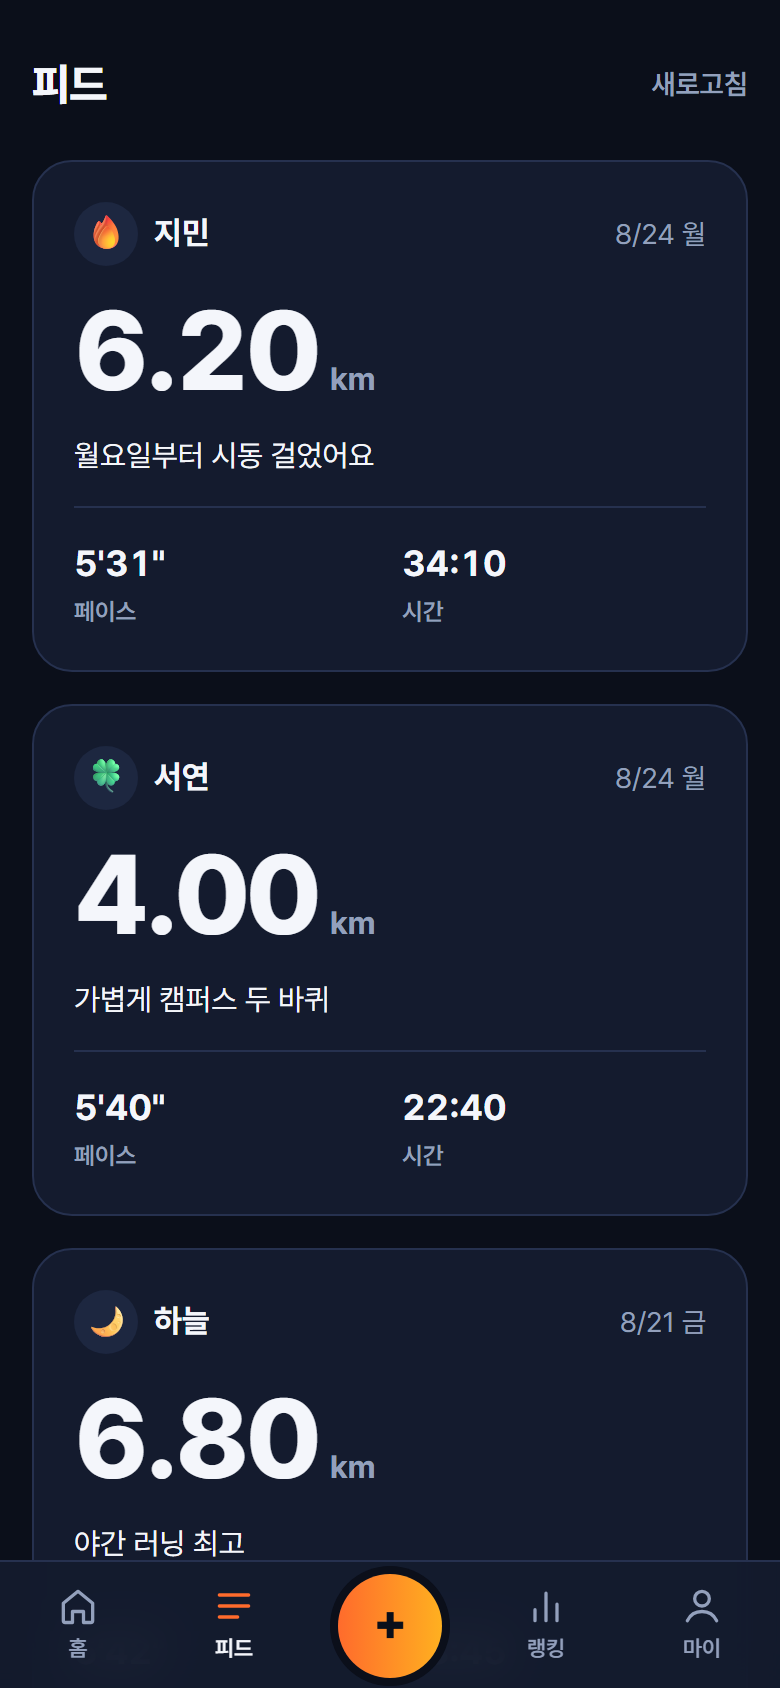
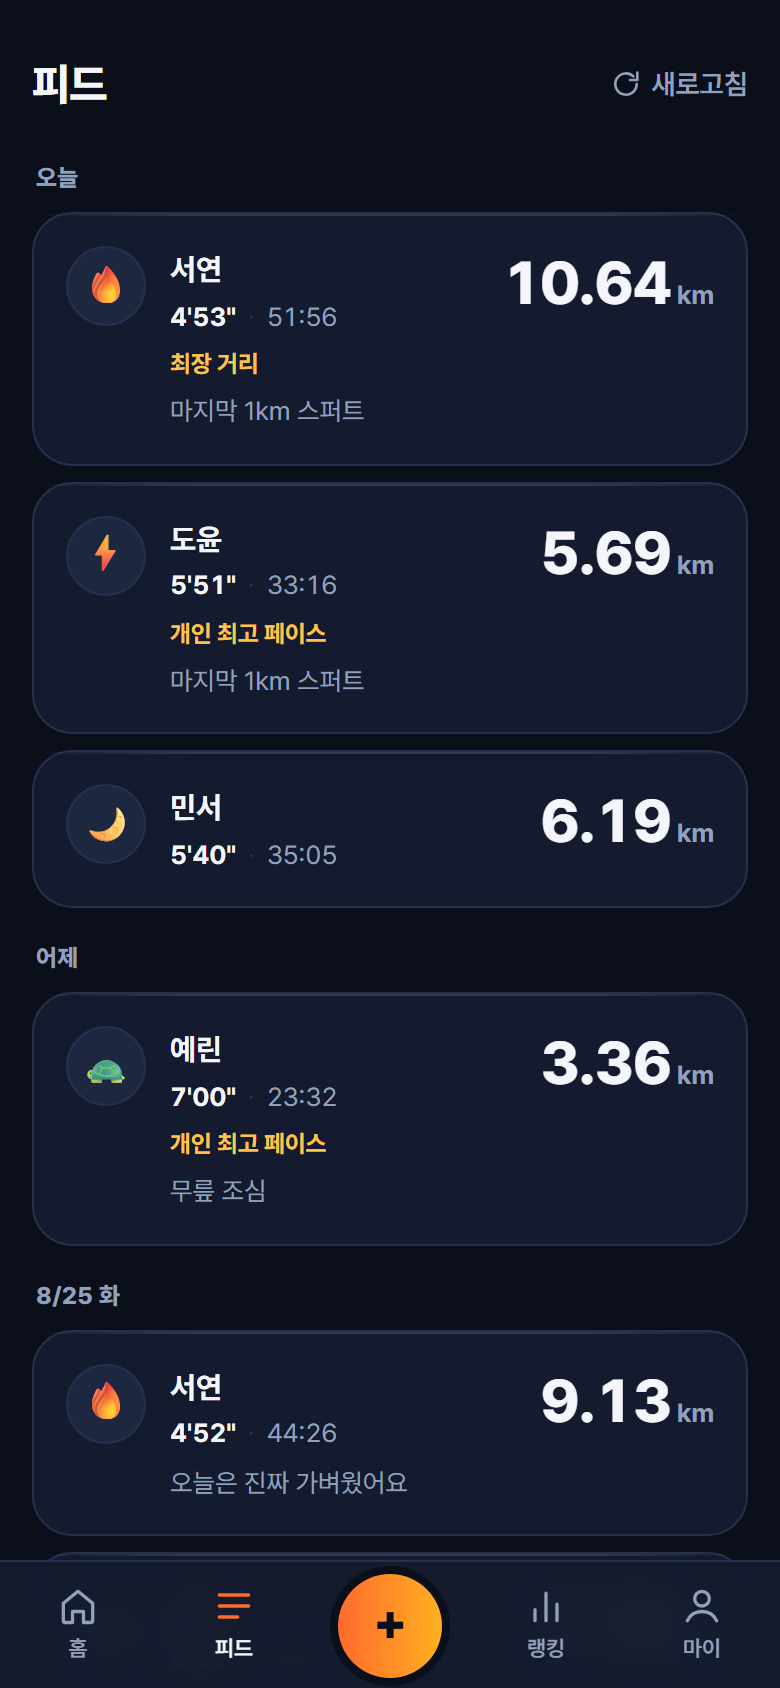
README를 지금 상태로 다시 씀 — 스크린샷 갱신, 새 지표 설명, 결정 로그 보강

diff --git a/README.md b/README.md
@@ -6,68 +6,100 @@
 
 각자 나이키런클럽·삼성헬스로 달리고 톡방에 스크린샷으로 "오늘도 달렸습니다"를 올리는데, 그 인증이 톡방에 흘러가 버려 아무것도 쌓이지 않는 게 아쉬웠습니다. 그래서 개인 기록 측정은 기존 러닝앱에 그대로 맡기고, **소모임에만 있는 재미** — 누적 거리로 전국을 종주하고, 거리가 아니라 꾸준함으로 순위를 매기고, 주간 스트릭이 끊기지 않게 서로 눈치를 주는 것 — 만 담았습니다.
 
-랭킹 1순위가 거리가 아니라 **인증 횟수**인 건 의도입니다. 기록으로 경쟁하면 부상이 나고 초보가 소외되니까요.
+랭킹 1순위가 거리가 아니라 **인증 횟수**인 건 의도입니다. 7명짜리 모임에서 거리로 줄을 세우면 하위 세 명이 매주 바닥에 있는 자기 이름을 보게 되고, 그 사람들이 조용히 나갑니다.
 
 ## 화면
 
-| 홈 — 가상 종주 | 피드 | 마이 — 주간 스트릭 |
+| 홈 — 가상 종주 | 피드 | 마이 |
 |---|---|---|
-| <img src="docs/home.png" width="240" alt="홈 화면" /> | <img src="docs/feed.png" width="240" alt="피드 화면" /> | <img src="docs/my.png" width="240" alt="마이 화면" /> |
+| <img src="docs/home.png" width="230" alt="홈 화면" /> | <img src="docs/feed.png" width="230" alt="피드 화면" /> | <img src="docs/my.png" width="230" alt="마이 화면" /> |
 
-소모임 누적 거리가 인하대 → 송도 → 서울 → 춘천 → … → 후쿠오카 루트를 따라 **실제 지도 위에서** 나아가고, 도시에 도착할 때마다 회식 같은 보상이 걸립니다. 지도는 Natural Earth(퍼블릭 도메인) 외곽선을 미리 SVG로 변환해 저장소에 넣어둔 것이고, 경로 좌표도 상수로 박아뒀습니다 — 지도 라이브러리도, 런타임 지도 호출도 없습니다.
+| 랭킹 | 올린 직후 |
+|---|---|
+| <img src="docs/ranking.png" width="230" alt="랭킹 화면" /> | <img src="docs/done.png" width="230" alt="인증 완료 화면" /> |
 
 ## 기능
 
-- **로그인** — 이름 + 숫자 4자리. 회원가입 화면이 없고, 처음 친 조합이 곧 계정입니다. 처음 보는 이름이면 확인 다이얼로그로 오타 계정을 막습니다.
-- **인증 업로드** — 러닝앱 기록 화면을 고르면 브라우저에서 OCR로 거리·시간을 읽어 폼을 채웁니다. **사진은 저장하지 않습니다** — 숫자만 읽고 버립니다. 시간은 `16:49` `1:05:55` `28` 을 전부 받습니다.
-- **피드** — 최신 50건. 사진 없이 거리 큰 숫자와 여백으로 읽히는 카드.
-- **마이** — 이번 달/누적 km, 총 인증, 주간 스트릭, 내 기록 삭제.
-- **랭킹** — 이번 주/이번 달/전체. 인증 횟수 ↓ → 거리 ↓ → 이름 순.
-- **가상 종주** — 소모임 누적 거리로 전국일주 + 후쿠오카. 진행률만큼 경로에 펜이 그려집니다.
+- **로그인** — 이름 + 숫자 4자리. 회원가입 화면이 없고, 처음 친 조합이 곧 계정입니다.
+- **인증 업로드** — 러닝앱 기록 화면을 고르면 브라우저에서 OCR로 거리·시간을 읽어 폼을 채우고, "3.01km · 16:49 을 읽었어요"라고 **확인**을 받습니다. 거리 퀵칩, 평소 페이스로 시간 추정, 오늘/어제 칩이 있어서 사진 없이도 몇 초면 끝납니다. **사진은 저장하지 않습니다** — 숫자만 읽고 바로 버립니다.
+- **올린 직후 보상 화면** — 종주가 얼마나 남았는지, 스트릭이 몇 주가 됐는지, 새 뱃지를 땄는지. 내 기록이 소모임을 새 도시에 닿게 했으면 도착 축하가 크게 뜹니다.
+- **톡방 공유 카드** — canvas로 그린 1080×1080 인증 카드를 공유 시트로 넘깁니다. 웹에 올리고 톡방에 공유하면 되니 이중 업로드가 사라집니다.
+- **기록 고치기·지우기** — OCR이 잘못 읽었으면 나중에 바로잡습니다.
+- **피드** — 날짜별로 묶인 최신 50건. 기록마다 그 사람의 평소와 견준 한마디(`개인 최고 페이스`, `평소보다 12초 빨랐어요`)와 응원 하트.
+- **마이** — 등급, 15주 잔디, 이번 달 변화, 주간 거리·페이스 그래프, 최고 기록, **에딩턴 수**, 뱃지 12개, 소모임 평균과의 비교.
+- **랭킹** — 이번 주/이번 달/전체 × 꾸준함/거리/페이스/케이던스. 3명부터 시상대가 섭니다.
+- **홈** — 소모임 누적 거리, 가상 종주 지도, 이번 주 요약, 그리고 톡방 멤버 목록처럼 보이는 소모임원 현황.
+- **건의함** — 소모임장에게 바로 갑니다.
+- **홈 화면에 추가** — 아이콘으로 열리는 앱처럼 동작합니다.
+
+## 다른 러닝앱이 안 보여주는 것
+
+- **에딩턴 수** — `n km 이상 달린 날이 n일` 을 만족하는 가장 큰 수. 한 번 멀리 달려서는 안 오르고 자주 달려야 올라서, "다음 숫자까지 세 번"이 저절로 퀘스트가 됩니다.
+- **꾸준함 점수** — 주간 인증 횟수의 변동계수. 매주 비슷하게 달릴수록 100점. 아예 안 달린 사람이 편차 0으로 만점을 받지 않도록 평균이 주 1회 미만이면 점수를 매기지 않습니다.
+- **같이 달린 날** — 두 명 이상이 같은 날 달린 날의 수. 7명짜리 모임에서만 의미가 있는 숫자입니다.
+- **5km 예상 기록** — Riegel 환산(`T₂ = T₁ × (D₂/D₁)^1.06`). 3km 뛴 사람과 12km 뛴 사람을 같은 축에서 봅니다. 레이스 전제 공식이라 순위엔 쓰지 않고 개인 추이로만 씁니다.
+- **가상 종주** — 소모임 누적 거리가 인하대 → 송도 → 서울 → 춘천 → … → 후쿠오카 루트를 따라 **실제 지도 위에서** 나아가고, 도시마다 회식 같은 보상이 걸립니다. 지도는 Natural Earth(퍼블릭 도메인) 외곽선을 미리 SVG로 변환해 저장소에 넣어둔 것이고 경로 좌표도 상수입니다 — 지도 라이브러리도, 런타임 지도 호출도 없습니다.
 
 ## 스택 · 아키텍처
 
-Vite + React + TypeScript로 만든 순수 클라이언트 앱이고, 서버 코드가 한 줄도 없습니다. 데이터는 브라우저에서 supabase-js로 Supabase Postgres에 직접 붙고(Storage는 쓰지 않습니다 — 사진을 안 남기니까), 배포는 GitHub Actions가 `main` push마다 GitHub Pages로 올립니다. 새로고침 404를 피하려고 라우터는 HashRouter를 쓰고 Vite `base`는 `'./'`로 두었습니다. 페이스·주간 스트릭·누적·랭킹은 **저장하지 않고 매번 계산**해서(`src/lib/calc.ts`) 기록을 지워도 통계가 어긋나지 않고, 판단이 갈리는 계산·파싱 함수에만 vitest 유닛 테스트를 붙였습니다. 스타일은 CSS 프레임워크 없이 디자인 토큰 변수와 순수 CSS로만 썼습니다. 스크린샷 인식은 tesseract.js를 필요할 때만 동적 import 해서 초기 번들 밖에 둡니다.
+Vite + React + TypeScript로 만든 순수 클라이언트 앱이고, 서버 코드가 한 줄도 없습니다. 데이터는 브라우저에서 supabase-js로 Supabase Postgres에 직접 붙고(Storage는 쓰지 않습니다 — 사진을 안 남기니까), 배포는 GitHub Actions가 `main` push마다 GitHub Pages로 올립니다. 새로고침 404를 피하려고 라우터는 HashRouter를 쓰고 Vite `base`는 `'./'`로 두었습니다.
 
-비밀번호는 `SHA-256(이름 + ':' + 숫자4자리)` 를 WebCrypto로 브라우저에서 해싱해 저장합니다. 4자리 숫자는 1만 가지뿐이고 anon 키도 공개 전제라 **링크를 아는 사람은 이론상 남의 이름으로 들어올 수 있습니다.** 7명 신뢰 기반 동아리 도구이고 서버에 남는 건 이름·날짜·거리·시간·메모뿐이라(사진은 브라우저를 벗어나지 않습니다) 의도한 트레이드오프이며, 링크는 톡방에만 공유합니다.
+**저장하는 건 이름·날짜·거리·시간·메모·케이던스뿐입니다.** 페이스·스트릭·누적·랭킹·잔디·뱃지·등급·에딩턴 수는 전부 매번 계산해서(`src/lib/calc.ts`, `src/lib/stats.ts`) 기록을 지우면 숫자도 정확히 되돌아갑니다. 소모임 데이터는 `src/lib/store.ts`(모듈 변수 + `useSyncExternalStore`, 40줄)에서 한 번만 받아 모든 화면이 나눠 쓰기 때문에 탭을 옮길 때 스피너가 돌지 않습니다.
+
+**차트·아이콘·공유 카드·PWA를 넣으면서 의존성은 하나도 늘지 않았습니다.** 막대·잔디·추이 선·원형 진행률은 CSS 격자와 인라인 SVG, 아이콘 20개는 24×24 격자에 직접 그린 path, 공유 카드는 canvas 2D, 홈 화면 아이콘은 `scripts/icons.mjs`가 한 번 구워 커밋합니다. 색도 마찬가지로 새 hex를 만들지 않고 `color-mix`로 기존 토큰에서 파생시켰습니다.
+
+스키마가 필요한 기능(케이던스·건의함·응원)은 **DB에 아직 칸이 없어도 앱이 멀쩡히 돌아가게** 만들었습니다. `src/lib/store.ts`의 `probeCaps`가 한 번 물어보고, 없으면 그 기능을 조용히 감춥니다. 건의함은 테이블이 없는 동안 클립보드로 떨어져서 톡방에 붙여넣을 수 있습니다.
+
+비밀번호는 `SHA-256(이름 + ':' + 숫자4자리)`를 WebCrypto로 브라우저에서 해싱해 저장합니다. 4자리 숫자는 1만 가지뿐이고 anon 키도 공개 전제라 **링크를 아는 사람은 이론상 남의 이름으로 들어올 수 있습니다.** 7명 신뢰 기반 동아리 도구이고 서버에 남는 게 숫자뿐이라 의도한 트레이드오프이며, 링크는 톡방에만 공유합니다.
 
 ## 실행법
 
 ```bash
 npm install
-npm run dev      # 개발 서버
-npm run build    # 타입 검사 + 프로덕션 빌드
-npm test         # 계산·파싱 유닛 테스트
+npm run dev       # 개발 서버
+npm run verify    # 타입 검사 · 유닛 테스트 · 규율 검사 · 빌드  ← 이거 하나면 됩니다
+npm run shots     # 전 화면 스크린샷 → .shots/contact.png 로 한 장에 모아 봅니다
+npm run guard     # 파일 구조 · 토큰 밖 색 · 영어 문구 · 의존성 화이트리스트 검사
 ```
 
-`main` 에 푸시하면 GitHub Actions가 빌드해서 GitHub Pages로 배포합니다.
+`npm run shots`는 Playwright로 Supabase REST 응답을 가로채 가짜 데이터를 물립니다. **운영 DB를 건드리지 않고** 데이터가 가득 찬 상태와 실제와 같은 1명·1건 상태를 둘 다 찍습니다. `.claude/agents/`에는 스크린샷을 보는 디자인 검토관, 한국어 문구 검사관, 스펙 감사관이 있습니다.
 
-DB는 `supabase/migrations/` 의 SQL을 번호 순서대로 Supabase SQL Editor에서 실행하면 됩니다. Storage 버킷은 필요 없습니다. 개발 중 화면을 채우려면 `supabase/seed_demo.sql` 을 넣었다가 인수 전에 지웁니다. Supabase URL과 anon 키는 `src/lib/supabase.ts` 에 그대로 들어 있습니다(공개 전제).
+DB는 `supabase/migrations/`의 SQL을 번호 순서대로 Supabase SQL Editor에서 실행하면 됩니다.
 
 ## 결정 로그
 
 스펙에 없어서 직접 정한 것들입니다.
 
-- `@types/react`, `@types/react-dom` 을 의존성 화이트리스트 밖에서 추가했습니다. TS+React에서 타입 검사가 아예 돌지 않아 타입 전용 패키지로 예외를 뒀습니다.
-- Supabase 키는 레거시 anon JWT 대신 publishable 키(`sb_publishable_…`)를 씁니다. 권한은 같은 anon이고 회전이 쉽습니다.
+- `@types/react`, `@types/react-dom`을 의존성 화이트리스트 밖에서 추가했습니다. TS+React에서 타입 검사가 아예 돌지 않아 타입 전용 패키지로 예외를 뒀습니다.
+- Supabase 키는 레거시 anon JWT 대신 publishable 키(`sb_publishable_…`)를 씁니다.
 - 확인 다이얼로그는 `window.confirm` 대신 앱 안에서 그립니다. 문구를 한국어로 통제하고 다크 토큰을 유지하려고요.
-- 새 계정 확인 문구의 조사는 받침으로 계산합니다 ('규혁'으로 / '새친구'로).
+- 조사(`으로`/`로`, `이`/`가`)는 `src/lib/ko.ts`에서 계산합니다. 값이 바뀌는 자리 뒤에 조사를 하드코딩하면 반드시 틀립니다.
 - OCR 전에 사진을 1280px로 줄이고 JPEG로 바꿉니다. 인식 속도가 몇 배 빨라집니다.
-- 폼에 `noValidate` 를 걸어 브라우저 기본 검증 대신 스펙에 적힌 한국어 문구가 항상 뜨게 했습니다.
-- 랭킹은 그 기간에 인증이 있는 멤버만 보여줍니다. 0회로 줄 세우면 눈치만 주니까요.
-- 스트릭이 0주면 "아직 연속 기록이 없어요"로 쓰고, "불꽃이 꺼지기 전에!" 문구는 이어오던 스트릭이 있을 때만 띄웁니다.
-- 종주 타임라인의 지나온 도시는 도시 이모지 대신 ✓ 점으로 찍습니다. 화면당 이모지 2~3개 규칙을 지키려고요.
-- 후쿠오카 항목의 "(부산→직선 200km)"는 거리 산정 근거라 화면에 넣지 않고 코드 주석으로 남겼습니다.
-- `.gitignore` 를 추가했습니다. 파일 구조 목록엔 없지만 `node_modules` 제외가 필요합니다.
-- README 스크린샷은 `docs/`, og 이미지는 배포에 실려야 해서 `public/` 에 둡니다. favicon은 별도 파일 없이 data URI SVG입니다.
-- README 스크린샷은 DB에 데모 데이터를 넣지 않고 Playwright로 REST 응답을 가로채 찍었습니다. 배포 DB를 비운 채로 두려고요.
-- OCR이 시간과 페이스를 가르는 기준은 "이미 읽은 거리로 나눈 페이스가 2'30"~15'00" 에 들어오는가"입니다. 상단 상태바 시계도 이 규칙에 걸러집니다.
-- 사진 첨부는 선택입니다. 저장하지 않으니 필수로 둘 근거가 없고, OCR이 안 먹는 화면에서 사용자를 막아 세우게 됩니다.
-- 지도는 Natural Earth 50m(퍼블릭 도메인)에서 남한·북한·일본 외곽선을 뽑아 메르카토르로 투영하고 Douglas–Peucker로 단순화해 `src/assets/korea.svg`(4.7KB)로 커밋했습니다. 런타임에 변환하지 않습니다.
-- 마지막 구간(인천 복귀 → 후쿠오카)의 선은 인천이 아니라 **부산**에서 뽑았습니다. 1700km라는 숫자 자체가 "부산에서 직선 200km" 기준이고, 인천에서 그리면 200km짜리 구간이 지도에서 가장 긴 선이 돼버립니다.
-- 펜 애니메이션은 `pathLength="1"`로 경로 길이를 정규화해서 씁니다. `getTotalLength()`로 재지 않아도 진행률을 그대로 `stroke-dashoffset`에 넣을 수 있습니다.
-- 터치 영역은 44×44를 최소로 잡았습니다. 새로고침·기간 세그먼트·⋯ 메뉴가 미달이라 음수 마진으로 보이는 위치는 그대로 두고 히트 영역만 넓혔습니다.
-- `prefers-reduced-motion`을 켠 사람에게는 흔들림·펜 애니메이션·카운트업을 끄고 최종 상태만 보여줍니다. 로딩 스피너는 상태 표시라 남깁니다.
-- 목록을 못 불러왔을 때 빈 배열로 뭉개지 않고 "불러오지 못했어요"로 따로 알립니다. 네트워크가 끊긴 걸 "기록이 없다"로 보여주면 거짓말이 됩니다.
-- 데모 시드는 인수 전에 멤버·기록을 **전부** 지웠습니다. 실행 계획엔 "멤버는 유지"라고 적혀 있지만, 9장의 "빈 상태로 넘긴다 / 명단을 미리 넣지 않는다"가 더 구체적이라 그쪽을 따랐습니다.
-- 피드와 RunCard는 Phase 4가 아니라 Phase 3에서 만들었습니다. Phase 3 완료 판정이 "피드에 보임"을 요구해서요.
+- OCR이 시간과 페이스를 가르는 기준은 "이미 읽은 거리로 나눈 페이스가 2'30"~15'00"에 들어오는가"입니다.
+- **케이던스는 OCR로 읽지 않습니다.** 숫자만 읽는 whitelist로는 `172 spm`과 `172 kcal`과 심박수를 가를 수 없고, 잘못 채우면 사용자가 모르는 채 틀린 값이 저장됩니다.
+- 사진 첨부는 선택입니다. 저장하지 않으니 필수로 둘 근거가 없습니다.
+- 지도는 Natural Earth 50m(퍼블릭 도메인)에서 뽑아 메르카토르로 투영하고 Douglas–Peucker로 단순화해 `src/assets/korea.svg`(4.7KB)로 커밋했습니다. 런타임에 변환하지 않습니다.
+- 마지막 구간(인천 복귀 → 후쿠오카)의 선은 인천이 아니라 **부산**에서 뽑았습니다. 1700km라는 숫자 자체가 "부산에서 직선 200km" 기준입니다.
+- 펜 애니메이션은 `pathLength="1"`로 경로 길이를 정규화해서 씁니다.
+- 터치 영역은 44×44를 최소로 잡았습니다.
+- `prefers-reduced-motion`을 켠 사람에게는 모든 애니메이션을 끄고 최종 상태만 보여줍니다. 로딩 스피너는 상태 표시라 남깁니다.
+- 목록을 못 불러왔을 때 빈 배열로 뭉개지 않고 "불러오지 못했어요"로 따로 알립니다.
+- 데모 시드는 인수 전에 멤버·기록을 **전부** 지웠습니다.
+
+### 밤샘 개편에서 정한 것 (2026-08-27)
+
+- **지도에 도시 이름을 얹지 않습니다.** 390px에서 라벨이 겹치고, 어차피 지도 아래 한 줄에서 읽힙니다. 지도 높이는 300px로 묶었습니다 — 한국은 세로로 긴 나라라 그대로 두면 화면 절반을 먹습니다.
+- **종주 카드 머리의 숫자는 `구간 1 / 9`입니다.** 전체 진행률 %를 쓰면 초반에 늘 `0%`라 읽을 게 없고, 지도가 보여주는 전국과 아래 막대가 보여주는 한 구간이 서로 다른 걸 가리켜 헷갈립니다.
+- **소모임원 목록에 등수를 붙이지 않습니다.** 이번 주에 달린 사람이 위로 오고, 안 달린 사람은 흐리게만 합니다. X 표시나 빨간색은 쓰지 않습니다.
+- **랭킹에서 내 행은 테두리로만 표시합니다.** 같은 값인데 막대 색이 다르면 색이 "더 잘함"으로 읽힙니다.
+- **느렸다는 말을 만들지 않습니다.** 피드 한마디는 개인 최고·평소보다 빠름·평소보다 멀리만 있고, 나빠진 값은 빨강이 아니라 회색입니다. 빨강은 지우기와 실패에만 씁니다.
+- **이번 달 변화는 지난달 *같은 날짜까지*와 견줍니다.** 27일에 이번 달 27일치를 지난달 31일치와 비교하면 매달 초에 전원이 퇴보한 것처럼 보입니다.
+- **값이 0인 주에 색 조각을 남기지 않습니다.** `min-height`로 남은 주황 조각이 "조금은 달렸다"로 읽혔습니다. 회색 2px 바닥선으로 바꿨습니다.
+- **기록 고치기는 `새로 넣고 → 옛 걸 지운다`입니다.** `runs`에 update 정책이 없기도 하고, 반대 순서면 네트워크가 끊겼을 때 기록이 증발합니다. 이 순서면 최악이라도 같은 기록이 두 개 남고 그건 지울 수 있습니다.
+- **소모임장은 이름을 코드에 박지 않고 가장 먼저 가입한 멤버로 판별합니다.**
+- **기능 탐지는 `suggestions` 테이블 하나만 물어봅니다.** 0003이 케이던스·건의함·응원을 한꺼번에 넣으니 하나만 확인하면 되고, 없는 걸 세 번 물으면 콘솔에 404가 세 번 찍힙니다.
+- **서비스 워커는 넣지 않았습니다.** 오프라인 이득보다 낡은 앱이 캐시에 남아 디버깅이 어려워지는 위험이 큽니다. manifest만으로도 홈 화면 추가는 됩니다.
+- **백분위 표시를 뺐습니다.** 7명에선 순위와 수학적으로 같은 말이라 새 정보가 없습니다. 값을 나란히 놓는 비교 막대로 대신했습니다.
+- **VO2max·ACWR 같은 지표를 일부러 뺐습니다.** 전력 레이스를 전제한 공식이라 동네 조깅 데이터를 넣으면 전원이 저평가됩니다.
+- **스트릭이 끊긴 주에 대한 문구를 바꿨습니다.** 원래 스펙의 "이번 주 아직 안 달렸어요 — 불꽃이 꺼지기 전에!"는 안 한 걸 지적합니다. "이번 주에 한 번만 올리면 불꽃이 이어져요"로 바꿨습니다.
+- **SPEC 11장이 CLAUDE.md를 통째로 베껴 담고 있던 걸 걷어냈습니다.** 같은 내용을 두 문서에 적으면 어긋나기 시작하고, 그때 어느 쪽이 맞는지 아무도 모르게 됩니다.
